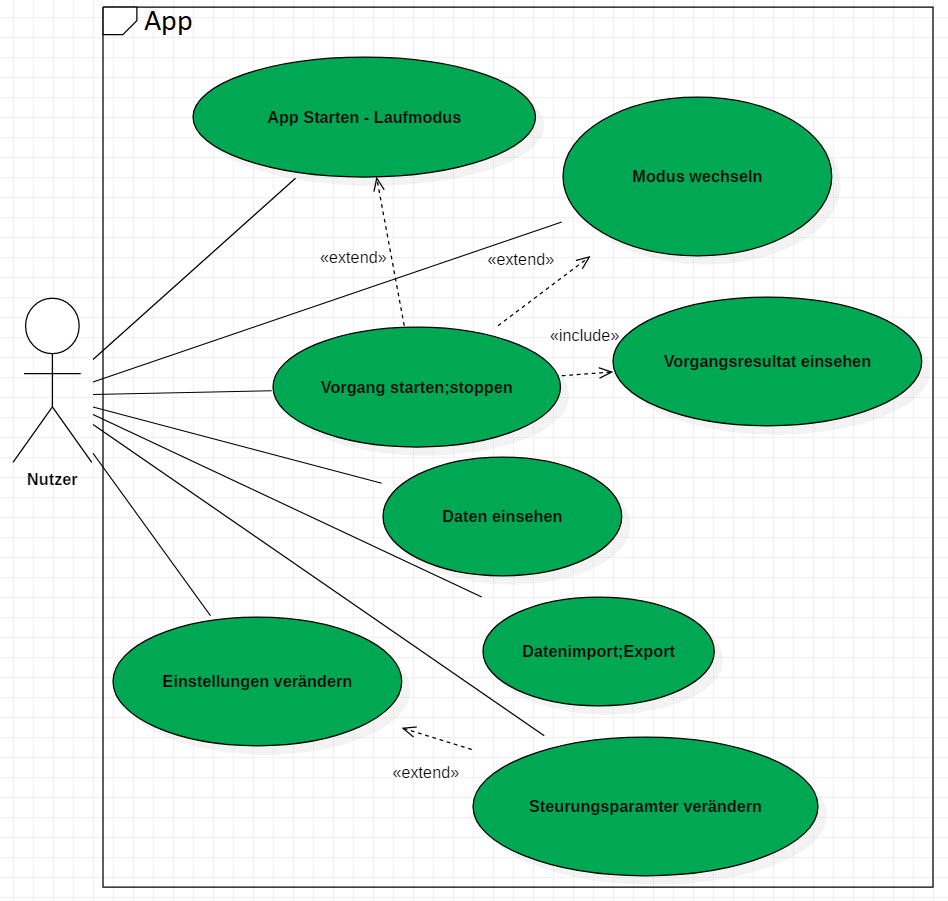
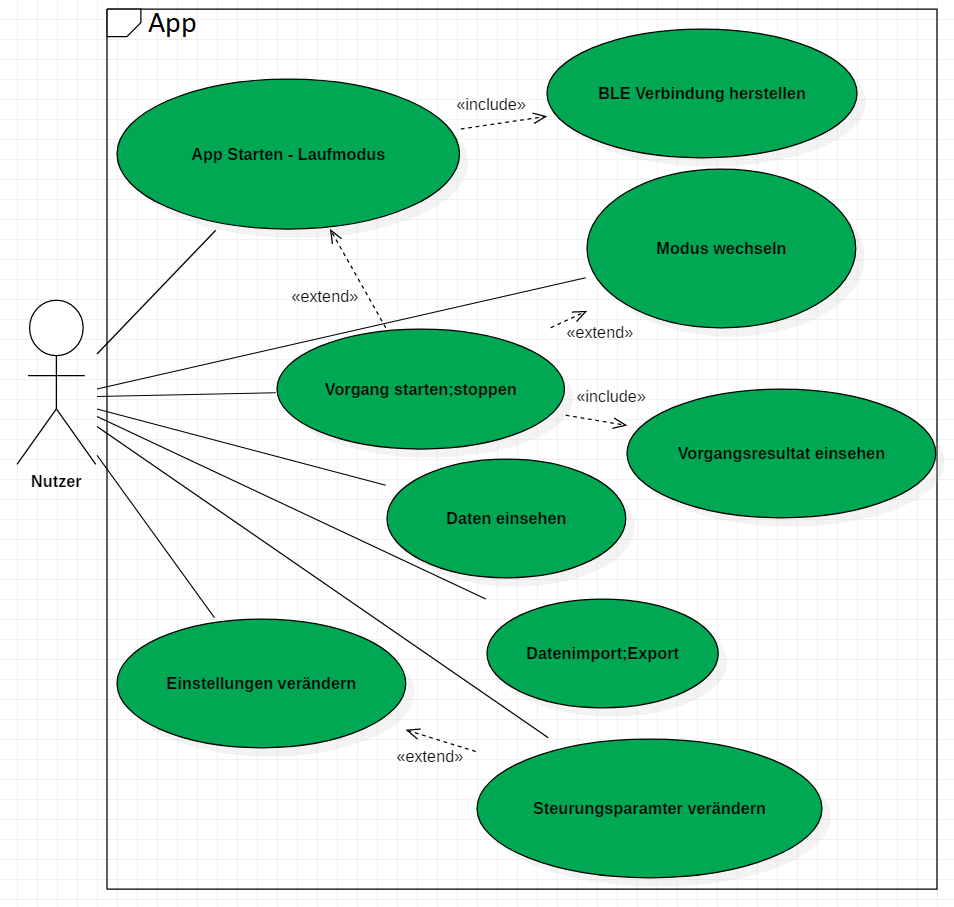
Use-Case Diagramm überarbeitet, Beschreibung ergänzt

diff --git a/Pflichtenheft.tex b/Pflichtenheft.tex
@@ -297,7 +297,7 @@ Wie unten unter dem Punkt Qualitätszielbestimmungen aufgeführt legen wir unser
 	\includegraphics[width=0.8\textwidth]{./Diagramme/Use-CaseDiagramm.png} 
   \end{center}
 
-Kurzbeschreibung: Beim Starten der App durch den Nutzer startet automatisch der Laufmodus. Der Nutzer kann nun entweder den Modus wechseln oder einen \Gls{Vorgang} starten. Nach Beendigung oder Stoppen des Vorgangs wird das Vorgangsresultat angezeigt. Der Nutzer kann außerdem die Vorgangsdaten des letzten Monats einsehen und seine Daten importieren/exportieren. Das Ändern von Einstellungen und der damit verbundenen \Gls{Steuerungsparameter} der \Gls{Earables} ist ebenfalls möglich.
+Kurzbeschreibung: Beim Starten der App landet der Nutzer automatisch im Laufmodus. Bevor ein Modus genutzt werden kann muss der Nutzer eine BLE Verbindung über ein Pop-up Fenster mit den Kopfhörern herstellen. Der Nutzer kann nun entweder den Modus wechseln oder einen \Gls{Vorgang} starten. Nach Beendigung oder Stoppen eines Vorgangs wird das Vorgangsresultat angezeigt. Der Nutzer kann außerdem die Vorgangsdaten des letzten Monats einsehen und seine Daten importieren/exportieren. Das Ändern von Einstellungen und der damit verbundenen \Gls{Steuerungsparameter} der \Gls{Earables} ist ebenfalls möglich.
 \section{Benutzeroberfläche}
 Die \Gls{GUI} wird durch die App realisiert. Dabei kann man die einzelnen Modi über das Navigationsmenü auswählen. Jeder Modus hat zwei Seiten; eine Übersichtsseite und eine aktive Seite, welche während des aktiven \Gls{Vorgang} angezeigt wird. Für die weiteren Funktionen(Einstellungen, Dateienexport/-import) bietet die Applikation ebenfalls spezielle Seiten an.
 Die \Gls{GUI} kann getestet werden mithilfe des Design-Tools \glqq Mock-up\grqq{} über den angegebenen Link in der Fußnote \footnote[1]{Mock-Up Prototyp: https://app.moqups.com/448nRiafse/view/page/a70dc1e41?ui=0}
